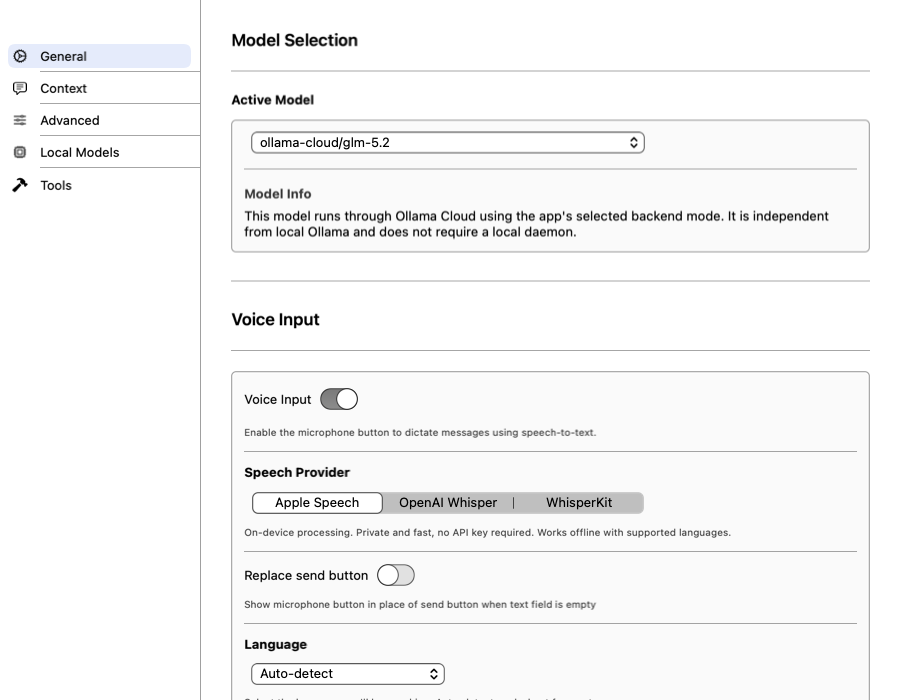
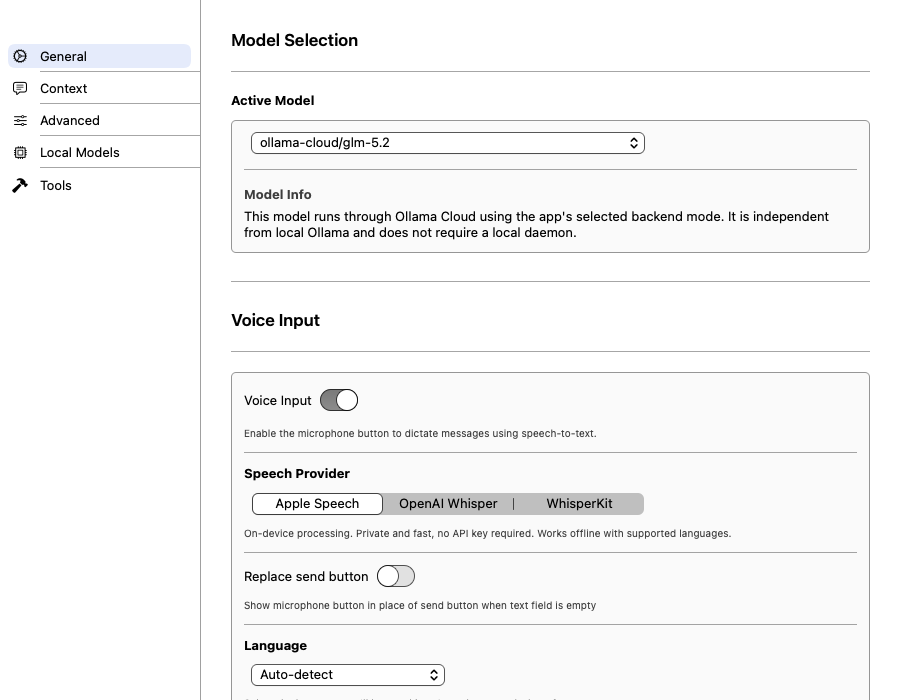
docs(chat): refresh Ollama verification evidence

diff --git a/docs/ollama-integration/README.md b/docs/ollama-integration/README.md
@@ -1,20 +1,85 @@
 # Shared Ollama settings integration evidence
 
-Actual public `ChatSettingsView` rendered in the Botsworth host with isolated synthetic fixtures. These images show only shared package views and fake/default model state—not private backend UI, real credentials, standalone LangTools transport, or live providers.
+Actual public `ChatSettingsView` rendered in a consuming host with isolated synthetic fixtures. These images show only shared package views and fake/default model state—not credentials, standalone LangTools transport, or live providers.
 
-## Current macOS rendered evidence — 2026-10-08 source remediation
+## Current macOS rendered evidence — 2026-10-13 local unpublished fix-all
+
+Current images below replace exactly the three public shared-view PNGs using the
+previously inspected guarded host run. They show actual synthetic
+NSHostingView bitmaps captured using the renderer's own briefly visible NSWindows,
+closed afterward: **not desktop screenshots, offscreen-only rendering, interactive
+host app workflows or standalone LangTools transport proof**. No window/code
+changes were needed or made. Only these three shared-view images belong in this
+public evidence set. Publication SHA is **awaiting atomic commits**, not guessed or
+published. This 2026-10-14 reconciliation changes documentation only, not images.
 
 | Local daemon | Local `:cloud` ID | Distinct Cloud |
 |---|---|---|
 | [![Local](shared-settings-macos.png)](shared-settings-macos.png) | [![Local cloud tag](shared-settings-macos-local-cloud-tag.png)](shared-settings-macos-local-cloud-tag.png) | [![Cloud](shared-settings-macos-cloud.png)](shared-settings-macos-cloud.png) |
 
-Captured and inspected against the repaired source before publication; subsequent asset/docs commits do not change runtime code. The local `ollama/…:cloud` identity remains local; Cloud is separate. These are synthetic NSHostingView rendered states, not interactive macOS workflows.
+Captions: `ollama/llama3` has the local explanation; `ollama/llama3:cloud` retains
+that local explanation and route; `ollama-cloud/glm-5.2` has an independent Cloud
+description. Fake/default state only, not current live-provider availability.
 
-- Child focused regressions: **71 tests, 0 failures**, including persisted/external endpoint validation, cache/currentness, helper authority/leases, settings preservation and native fixture transport.
-- Provider root: **375 tests, 0 failures** (5 skipped); callback routing preserves intermediate tool responses.
-- Host focused integration: **139 tests, 0 failures**; macOS render/probe harness separately **6/6** with verified app/native interception and zero unexpected intercepted requests.
-- Host execution used `env -i`, isolated HOME/CFFIXED_USER_HOME, empty CWD, verified Security-deny interposer and network-deny sandbox. Denied Keychain attempts are not absence of all Keychain activity. The existing real-Keychain roundtrip is retained but excluded from the 71-test scope after guard denial; full Chat/account/helper suite success is not claimed. No socket/live TLS proof.
-- Actual current app-target Debug/Release and simulator verification are **blocked before app compilation** by Xcode's nested manifest sandbox (`sandbox_apply: Operation not permitted`). Package compilation is not app-target proof. Removing the additional build sandbox has not been authorized/performed.
+## Current results / gates — 2026-10-14, draft-only and not merge-ready
+
+- Local dependency target merge `514f071` remains unpublished; last recorded remote
+  draft is `cf15ec9`. Preserve history. Final publication SHA awaits atomic commits.
+- Implemented source fixes: HTTPS synthetic CI fixture without weakening endpoint
+  policy; all THREE approved P3 fixes—DEBUG session read/swap locking with invalidation
+  outside the lock, explicit local/Cloud preference retention using one eligibility
+  snapshot, and concrete injected Cloud catalog isolation preserving production
+  defaults/key/schema/API. Quiescence remains required; not active-request lifecycle
+  or TSan proof. Bounded source/security review PASS is not whole-PR approval.
+- Shared Chat **73 selected / 0 failures**. ProviderAccess is 14 selected of 23; nine
+  credential-dependent methods were not executed, and two negative/override passes
+  lack positive saved-key prerequisites. The exact CI fixture overlaps this total.
+- Provider root **335 selected / 0 failures / 5 skipped**, including earlier 33
+  callback tests (not additive). Both AppleSpeech classes, whole WhisperKit class and
+  six HelperLink cases are excluded under TCC/no-download/no-socket boundaries.
+  Full account, credential persistence, socket/helper TLS, live-provider and database
+  behavior are not established by this selection.
+- Consuming-host **macOS AND iOS Debug and Release app compilation PASS** with normal
+  validation and narrow isolated macro approval. Compiler-only permission does not
+  guarantee zero compiler network. Fresh UI build-for-testing **PASS in 48.075s**;
+  initial timeout with UNKNOWN compiler exit remains a separate failed/incomplete
+  attempt, not green. Independent iOS **Release fixture-exclusion PASS** uses fresh
+  Debug-positive/Release-absent symbols/strings and compiler flags/source guards.
+- All **14 fixture cases compiled, NOT executed**. The **28 total runtime outcomes**
+  (14 on compact and 14 on large) and current iOS images remain missing. New isolated
+  QA devices were recorded available/eligible but **never booted**. Runtime signature
+  re-verification passed after an initial seal failure and normal re-import;
+  stale unusable-image metadata remains, so full runtime usability is not claimed.
+- Native execution stopped after a contained host driver metadata probe aborted with
+  **SIGABRT (-6), no output and no guard activation marker**. Cause is unestablished;
+  neither a source defect nor actual credential access is proved. Effective simulator
+  fixture group was statically resolved from `__TEXT/__entitlements`; no actual
+  signing occurred. Accepted simulator framework-egress residual does not waive host
+  guards. No native continuation is authorized by this documentation pass.
+- Last recorded CI at OLD `cf15ec9`: six successes, one app-helper failure, two Cloud
+  skips. The repaired local fixture is not new-head CI. Both dependency and consuming
+  integration remain **Draft, unmerged and not merge-ready** pending native outcomes,
+  current iOS images, final review and new-head checks. No remote state was refreshed.
+
+Existing receipts only; this offline reconciliation ran no tests/builds, probes or
+publication. Current source and images are unchanged. Public evidence is limited to
+shared Chat scope; operational identifiers and host-only evidence are not included.
+
+## Historical macOS source-remediation evidence — 2026-10-08
+
+The prior three images remain identifiable at published child `cf15ec9`; current
+filenames above now hold the 2026-10-13 renders, not those old captures:
+[local](https://github.com/rchatham/LangTools.swift/blob/cf15ec9c460255ef4b7226ddc642cf3f660625c8/docs/ollama-integration/shared-settings-macos.png),
+[local cloud tag](https://github.com/rchatham/LangTools.swift/blob/cf15ec9c460255ef4b7226ddc642cf3f660625c8/docs/ollama-integration/shared-settings-macos-local-cloud-tag.png),
+[Cloud](https://github.com/rchatham/LangTools.swift/blob/cf15ec9c460255ef4b7226ddc642cf3f660625c8/docs/ollama-integration/shared-settings-macos-cloud.png).
+
+Earlier results: child **71 / 0**, provider root **375 / 0** (5 skipped),
+Mac render/probe **6 / 0**. Those guarded runs
+covered endpoint/cache/currentness/helper/settings/native fixtures and callbacks;
+real-Keychain roundtrip was retained but excluded after guard denial. Full Chat/
+account/helper and live socket/TLS proof were not claimed. At that checkpoint,
+Xcode's nested manifest sandbox blocked app-target compilation; subsequent current
+macOS and iOS builds resolved compilation; current iOS runtime/visual gates remain.
 
 ## Historical iOS evidence — not current source verification
 
@@ -24,6 +89,6 @@ Captured and inspected against the repaired source before publication; subsequen
 
 These files remain pre-merge captures. Historical native fixtures passed 12 cases per viewport; a later startup correction passed three affected compact flows without a full rerun. Upstream settings/helper UI changed afterward. Fresh repaired-head compact/large inspection and screenshots remain a merge-readiness blocker; unchanged files do not prove visual equivalence.
 
-Standalone Chat refuses Cloud completion/stream/agents without a host Cloud-capable transport; Botsworth supplies that integration in draft MR !14. Snapshot exposes no direct raw helper credential/lease/session getter, but returned `AgentContext` retains normal `LangTools` semantics: trusted holders can access its session and prepared requests. This is not a transitive secrecy sandbox.
+Standalone Chat refuses Cloud completion/stream/agents without a host Cloud-capable transport; a consuming application must supply that integration. Snapshot exposes no direct raw helper credential/lease/session getter, but returned `AgentContext` retains normal `LangTools` semantics: trusted holders can access its session and prepared requests. This is not a transitive secrecy sandbox.
 
-Do not use real host stores/providers to force green tests. Simulator fixtures use fake credentials in owned devices; never inject the host deny interposer into simulator apps. No current Release fixture-exclusion, live-provider/deployed-TLS, complete UI verification or merge-readiness claim.
+Do not use real host stores/providers to force green tests. Simulator fixtures use fake credentials in owned devices; never inject the host deny interposer into simulator apps. Current iOS Release fixture exclusion is verified, but live-provider/deployed-TLS, complete UI runtime verification and merge readiness are not. Previously exposed credentials require rotation through a separately authorized process; no values or credential operations belong in this evidence.
